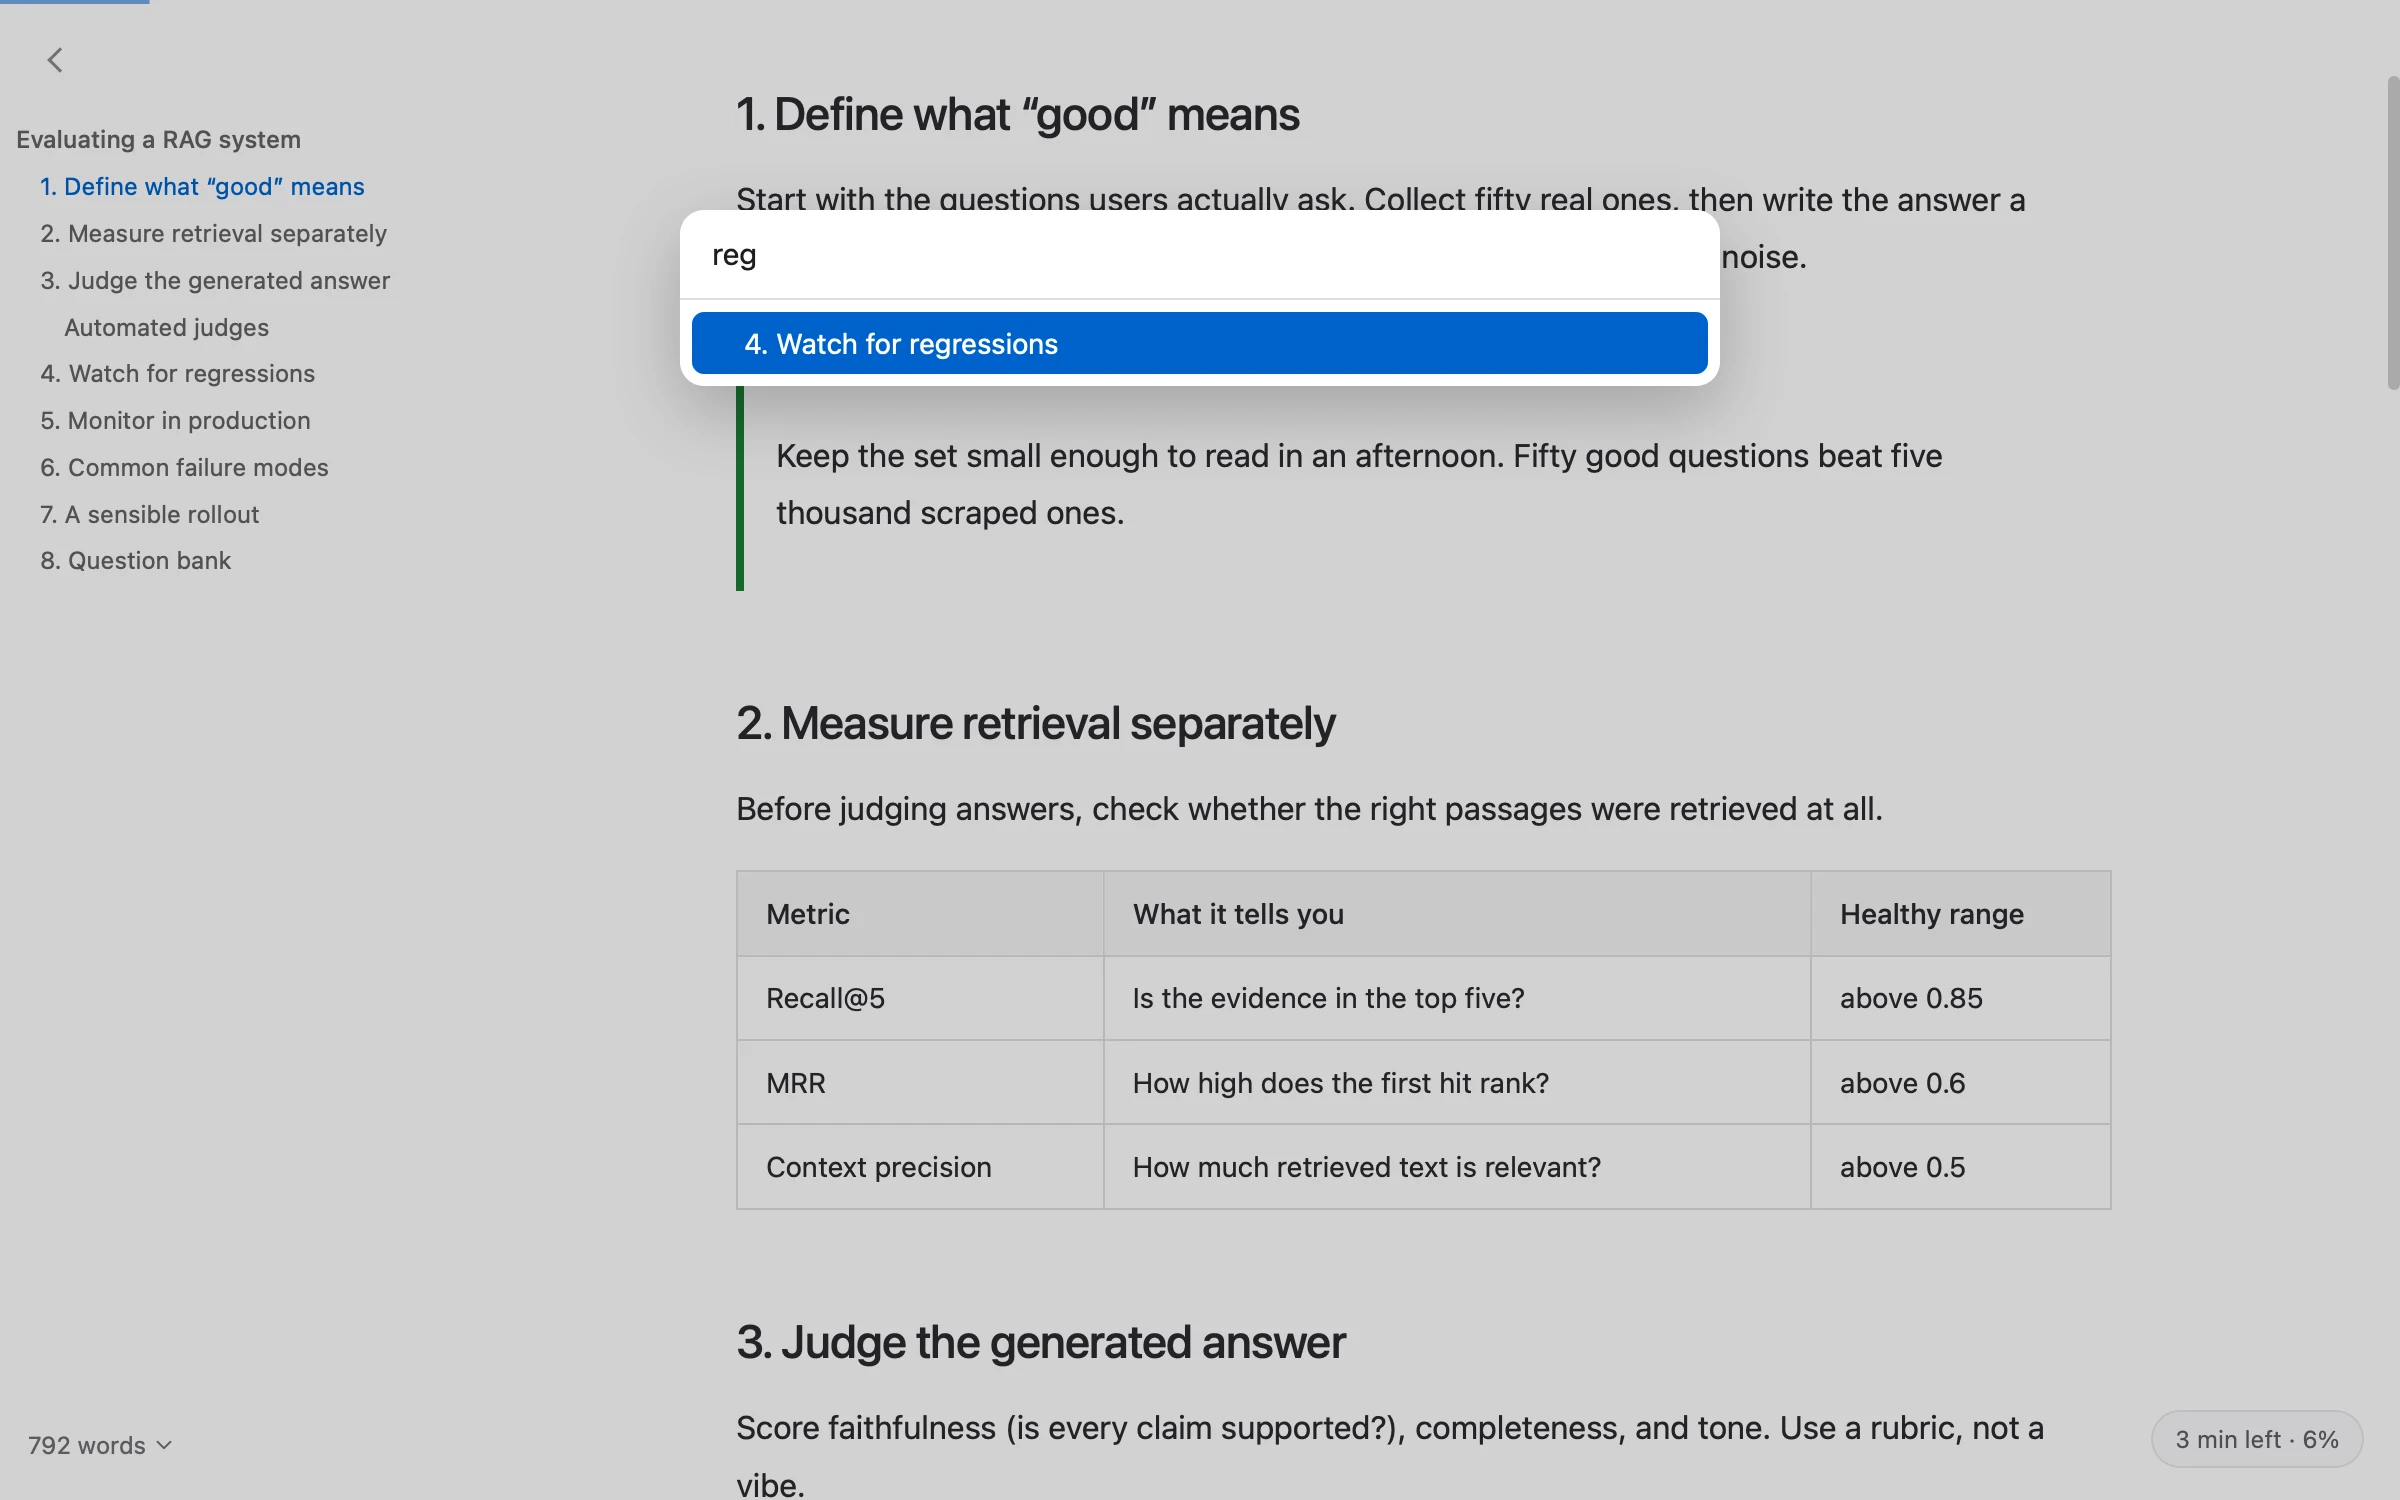
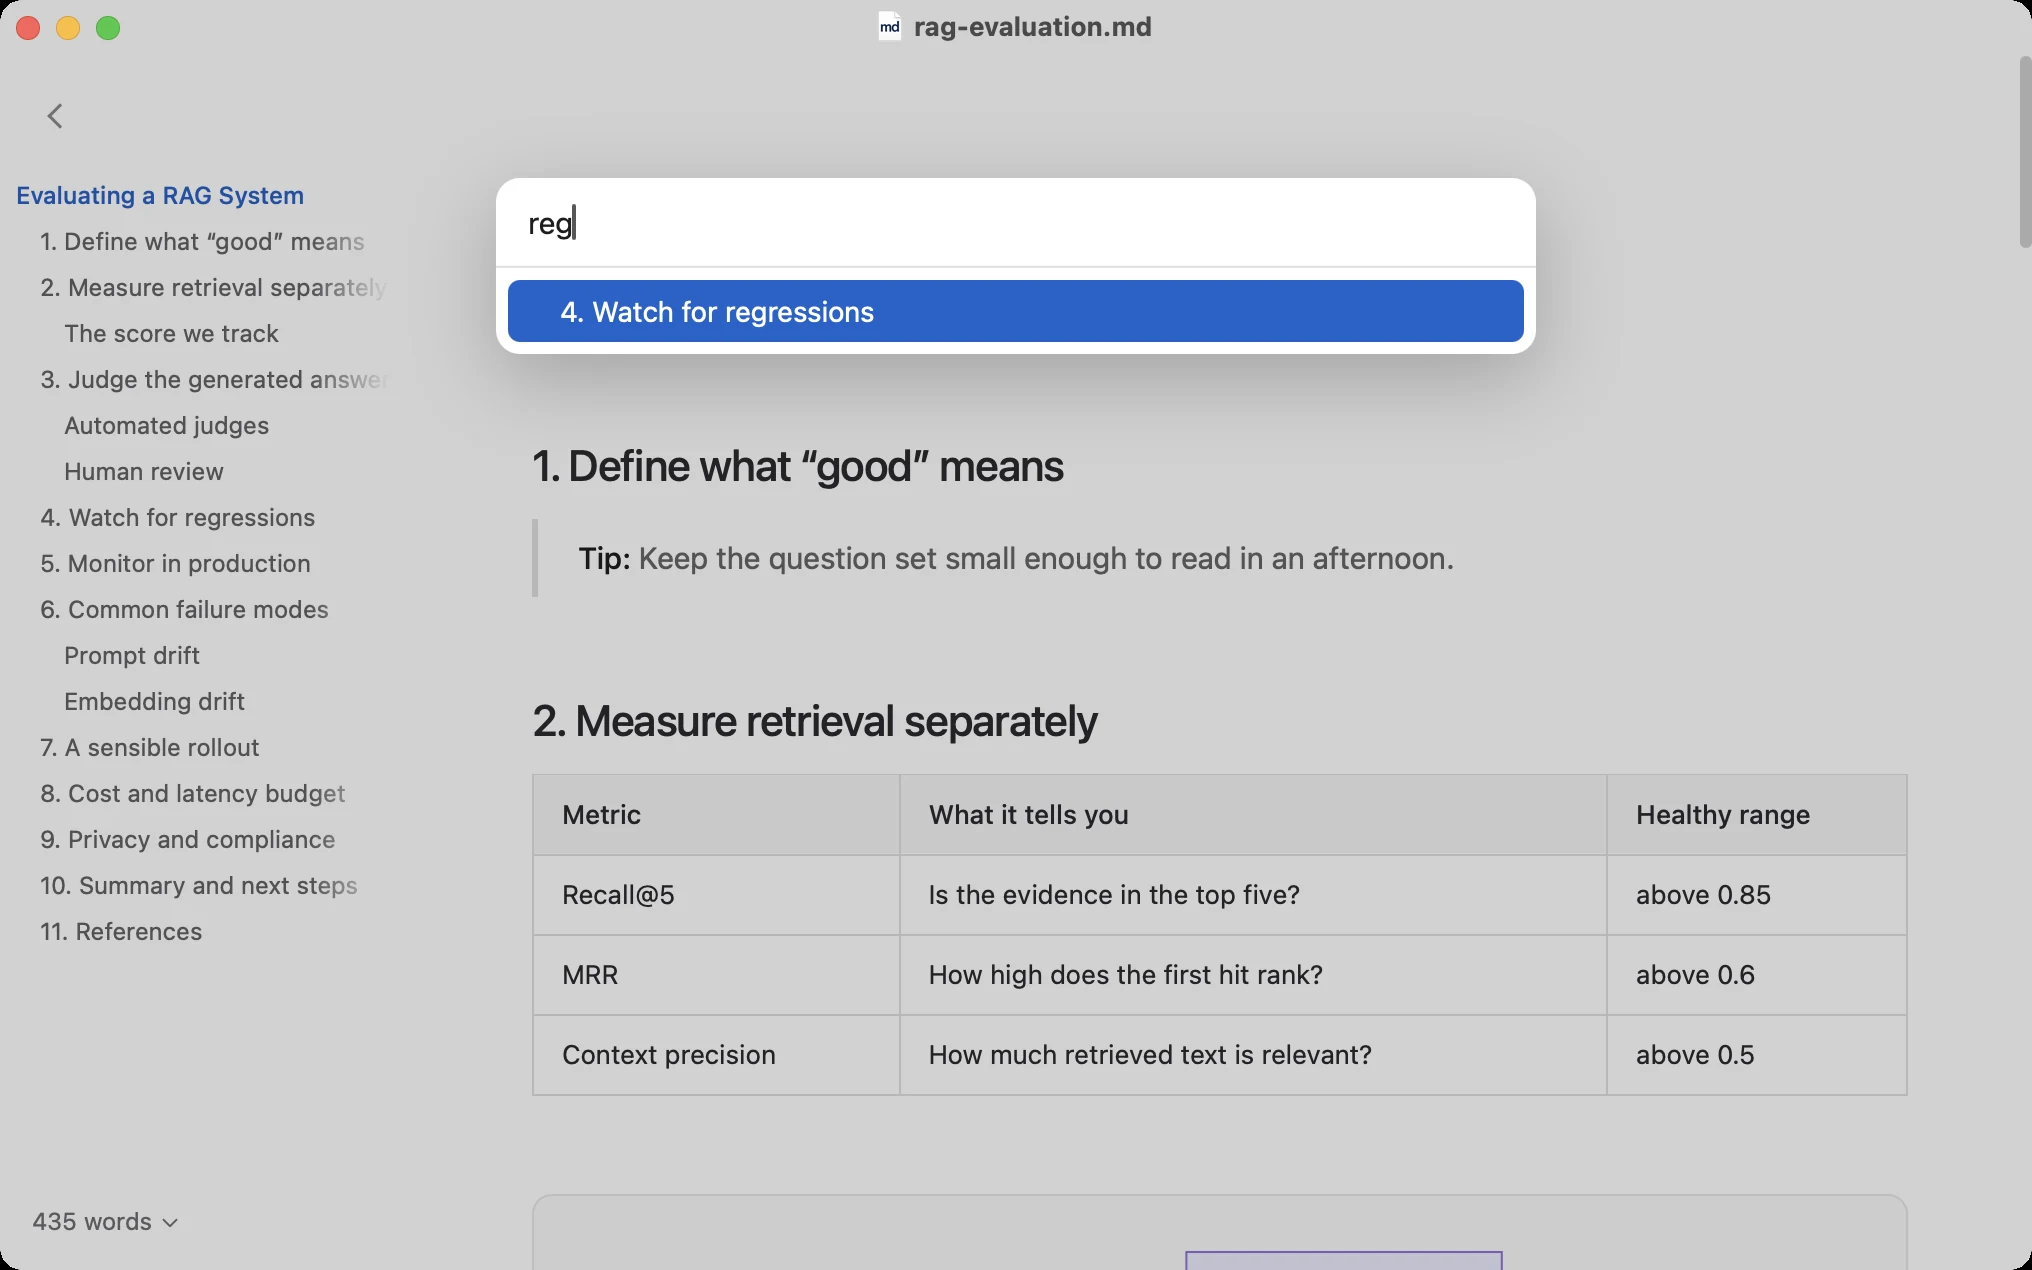
README: AI-style sample with Mermaid, full-window shots in 1.6 ratio, new Cmd+E section; keep outline toggle clear of the source bar
- Screenshots use a longer, typical AI-answer document (11-section outline,
  tip, table, flowchart peeking in) and show the whole window with title bar.
- Replace the Before/After block with a Cmd+E source/preview pair.
- CSS: in source mode the outline toggle and outline now sit below the
  source toolbar instead of overlapping it.

diff --git a/css/app.css b/css/app.css
@@ -323,8 +323,8 @@ body.toc-animating .page { transition: margin-left .34s cubic-bezier(.32,.72,0,1
 /* 工具栏出现时，目录开关和目录第一项让到工具栏下面，不再重叠 */
 .toc-toggle { transition: top .26s cubic-bezier(.32,.72,0,1), color .15s ease, background .15s ease; }
 .toc-sidebar { transition: transform .34s cubic-bezier(.32,.72,0,1), opacity .28s ease, visibility .34s, padding-top .26s cubic-bezier(.32,.72,0,1); }
-body.has-edit-bar .toc-toggle { top: 52px; }
-body.has-edit-bar .toc-sidebar { padding-top: 94px; }
+body.has-edit-bar .toc-toggle, body.has-source-bar .toc-toggle { top: 52px; }
+body.has-edit-bar .toc-sidebar, body.has-source-bar .toc-sidebar { padding-top: 94px; }
 
 /* 窗口未聚焦时系统标题栏变灰，工具栏同步变成同一种灰 */
 
@@ -367,7 +367,7 @@ svg.edit-icon { stroke-width: 1.15px; }
 .scroll-wrap { top: var(--titlebar-h, 0px); }
 .toc-sidebar { top: var(--titlebar-h, 0px); }
 .toc-toggle { top: calc(16px + var(--titlebar-h, 0px)); }
-body.has-edit-bar .toc-toggle { top: calc(52px + var(--titlebar-h, 0px)); }
+body.has-edit-bar .toc-toggle, body.has-source-bar .toc-toggle { top: calc(52px + var(--titlebar-h, 0px)); }
 .edit-bar { top: var(--titlebar-h, 0px); }
 .find-bar { top: var(--titlebar-h, 0px); }
 .read-progress { top: var(--titlebar-h, 0px); }

diff --git a/README.md b/README.md
@@ -70,7 +70,7 @@ Long answers get a clickable outline, section folding, your choice of reading fo
 <a href="https://tahoeliu.github.io/mdPreview/">
 <picture>
   <source media="(prefers-color-scheme: dark)" srcset="docs/images/hero-reading-dark.webp">
-  <img src="docs/images/hero-reading.webp" alt="The mdPreview window on a Mac: a long Markdown document shown as a clean page, with a section outline on the left, a tip box and a table" width="860">
+  <img src="docs/images/hero-reading.webp" alt="The mdPreview window on a Mac: an AI-style guide shown as a clean page, with an eleven-section outline on the left, a tip, a table and the top of a flowchart" width="860">
 </picture>
 </a>
 </p>
@@ -82,7 +82,7 @@ Type a few letters, press Return, and you are there. No scrolling through a 5,00
 <div align="center">
 <picture>
   <source media="(prefers-color-scheme: dark)" srcset="docs/images/hero-goto-dark.webp">
-  <img src="docs/images/hero-goto.webp" alt="mdPreview's Go to Heading box: typing 'reg' jumps straight to the section 'Watch for regressions'" width="760">
+  <img src="docs/images/hero-goto.webp" alt="mdPreview's Go to Heading box: typing 'reg' jumps straight to the section 'Watch for regressions'" width="860">
 </picture>
 </div>
 
@@ -93,18 +93,32 @@ Documents open for reading. Click into the text and a formatting bar slides in. 
 <div align="center">
 <picture>
   <source media="(prefers-color-scheme: dark)" srcset="docs/images/edit-bar-dark.webp">
-  <img src="docs/images/edit-bar.webp" alt="mdPreview's editing toolbar above a document: insert, undo, text style, bold, italic, lists, link and quote buttons" width="760">
+  <img src="docs/images/edit-bar.webp" alt="mdPreview's editing toolbar above a document: insert, undo, text style, bold, italic, lists, link and quote buttons" width="860">
 </picture>
 </div>
 
-### Before and after
+### Switch: `⌘E` shows the Markdown behind the page
 
-<div align="center">
+Press `⌘E` to flip between the formatted page and its plain-text Markdown, and back again. Each line of source lines up with what it becomes on the page: `##` is a heading, `**` is bold, `|` rows are a table, and a `mermaid` block is a diagram. Handy for copying exact text, or for learning what the symbols mean.
+
+<table>
+<tr>
+<td width="50%" valign="top">
 <picture>
-  <source media="(prefers-color-scheme: dark)" srcset="docs/images/after-dark.webp">
-  <img src="docs/images/after.webp" alt="The same Markdown text shown rendered by mdPreview: a title, a tip box, a table and a list" width="420">
+  <source media="(prefers-color-scheme: dark)" srcset="docs/images/cmde-source-dark.webp">
+  <img src="docs/images/cmde-source.webp" alt="mdPreview in source mode: the Markdown text of a heading, a tip, a table and a Mermaid block, with colour-coded symbols" width="100%">
 </picture>
-</div>
+<sub><b>Source</b>: the Markdown text</sub>
+</td>
+<td width="50%" valign="top">
+<picture>
+  <source media="(prefers-color-scheme: dark)" srcset="docs/images/cmde-preview-dark.webp">
+  <img src="docs/images/cmde-preview.webp" alt="The same section in reading mode: a heading, a tip, a table and a flowchart" width="100%">
+</picture>
+<sub><b>Preview</b>: the same lines, rendered</sub>
+</td>
+</tr>
+</table>
 
 ---
 
@@ -216,7 +230,7 @@ Use **Help → Report an Issue…** in the app, or [open an issue](https://githu
 | **What it is** | A Markdown viewer and editor for macOS |
 | **Price** | Free, MIT open-source licence |
 | **Works on** | macOS 13 or later; Apple silicon and Intel |
-| **Latest version** | [2.0.0](CHANGELOG.md) |
+| **Latest version** | [2.0.3](CHANGELOG.md) |
 | **Exports** | PDF, Word (.docx), HTML, plain text, Markdown, PNG, rich text |
 | **Renders** | Tables, task lists, footnotes, KaTeX maths, Mermaid diagrams, GitHub alerts, syntax-highlighted code |
 | **Languages** | English, 简体中文, 繁體中文, 日本語, 한국어, Deutsch, Français, Español |

diff --git a/README.zh-CN.md b/README.zh-CN.md
@@ -70,7 +70,7 @@
 <a href="https://tahoeliu.github.io/mdPreview/zh.html">
 <picture>
   <source media="(prefers-color-scheme: dark)" srcset="docs/images/hero-reading-zh-dark.webp">
-  <img src="docs/images/hero-reading-zh.webp" alt="Mac 上的 mdPreview 窗口：左侧是文档大纲，右侧是排版好的长文档，含提示框和表格" width="860">
+  <img src="docs/images/hero-reading-zh.webp" alt="Mac 上的 mdPreview 窗口：左侧是十一个章节的大纲，右侧是 AI 风格的排版文档，含提示、表格和流程图的开头" width="860">
 </picture>
 </a>
 </p>
@@ -82,7 +82,7 @@
 <div align="center">
 <picture>
   <source media="(prefers-color-scheme: dark)" srcset="docs/images/hero-goto-zh-dark.webp">
-  <img src="docs/images/hero-goto-zh.webp" alt="mdPreview 的“跳转到标题”框：输入几个字就直达对应章节" width="760">
+  <img src="docs/images/hero-goto-zh.webp" alt="mdPreview 的“跳转到标题”框：输入几个字就直达对应章节" width="860">
 </picture>
 </div>
 
@@ -93,18 +93,32 @@
 <div align="center">
 <picture>
   <source media="(prefers-color-scheme: dark)" srcset="docs/images/edit-bar-zh-dark.webp">
-  <img src="docs/images/edit-bar-zh.webp" alt="mdPreview 文档上方的编辑工具条：插入、撤销、文本样式、加粗、斜体、列表、链接和引用" width="760">
+  <img src="docs/images/edit-bar-zh.webp" alt="mdPreview 文档上方的编辑工具条：插入、撤销、文本样式、加粗、斜体、列表、链接和引用" width="860">
 </picture>
 </div>
 
-### 前后对比
+### 切换：`⌘E` 看见页面背后的 Markdown
 
-<div align="center">
+按 `⌘E`，在排版好的页面和纯文本 Markdown 之间来回切换。源码的每一行都对应页面上的一处：`##` 是标题，`**` 是加粗，`|` 竖线是表格，`mermaid` 代码块就是流程图。想复制原文，或想弄懂那些符号的含义，都很方便。
+
+<table>
+<tr>
+<td width="50%" valign="top">
 <picture>
-  <source media="(prefers-color-scheme: dark)" srcset="docs/images/after-zh-dark.webp">
-  <img src="docs/images/after-zh.webp" alt="同一段 Markdown 经 mdPreview 渲染后的样子：标题、提示框、表格和列表" width="420">
+  <source media="(prefers-color-scheme: dark)" srcset="docs/images/cmde-source-zh-dark.webp">
+  <img src="docs/images/cmde-source-zh.webp" alt="mdPreview 的源码模式：标题、提示、表格和 Mermaid 代码块的 Markdown 文本，符号带有颜色" width="100%">
 </picture>
-</div>
+<sub><b>源码</b>：Markdown 文本</sub>
+</td>
+<td width="50%" valign="top">
+<picture>
+  <source media="(prefers-color-scheme: dark)" srcset="docs/images/cmde-preview-zh-dark.webp">
+  <img src="docs/images/cmde-preview-zh.webp" alt="同一段内容的阅读模式：标题、提示、表格和流程图" width="100%">
+</picture>
+<sub><b>预览</b>：同样的内容，排好版</sub>
+</td>
+</tr>
+</table>
 
 ---
 
@@ -216,7 +230,7 @@ App 里的“**帮助 → 报告问题…**”，或 [在 GitHub 提 issue](http
 | **是什么** | macOS 上的 Markdown 阅读与编辑工具 |
 | **价格** | 免费，MIT 开源许可 |
 | **系统** | macOS 13 或更高；Apple 芯片和 Intel |
-| **最新版本** | [2.0.0](CHANGELOG.md) |
+| **最新版本** | [2.0.3](CHANGELOG.md) |
 | **导出** | PDF、Word（.docx）、HTML、纯文本、Markdown、PNG、富文本 |
 | **渲染** | 表格、任务列表、脚注、KaTeX 公式、Mermaid 图表、GitHub 提示块、代码高亮 |
 | **界面语言** | 简体中文、繁體中文、English、日本語、한국어、Deutsch、Français、Español |
